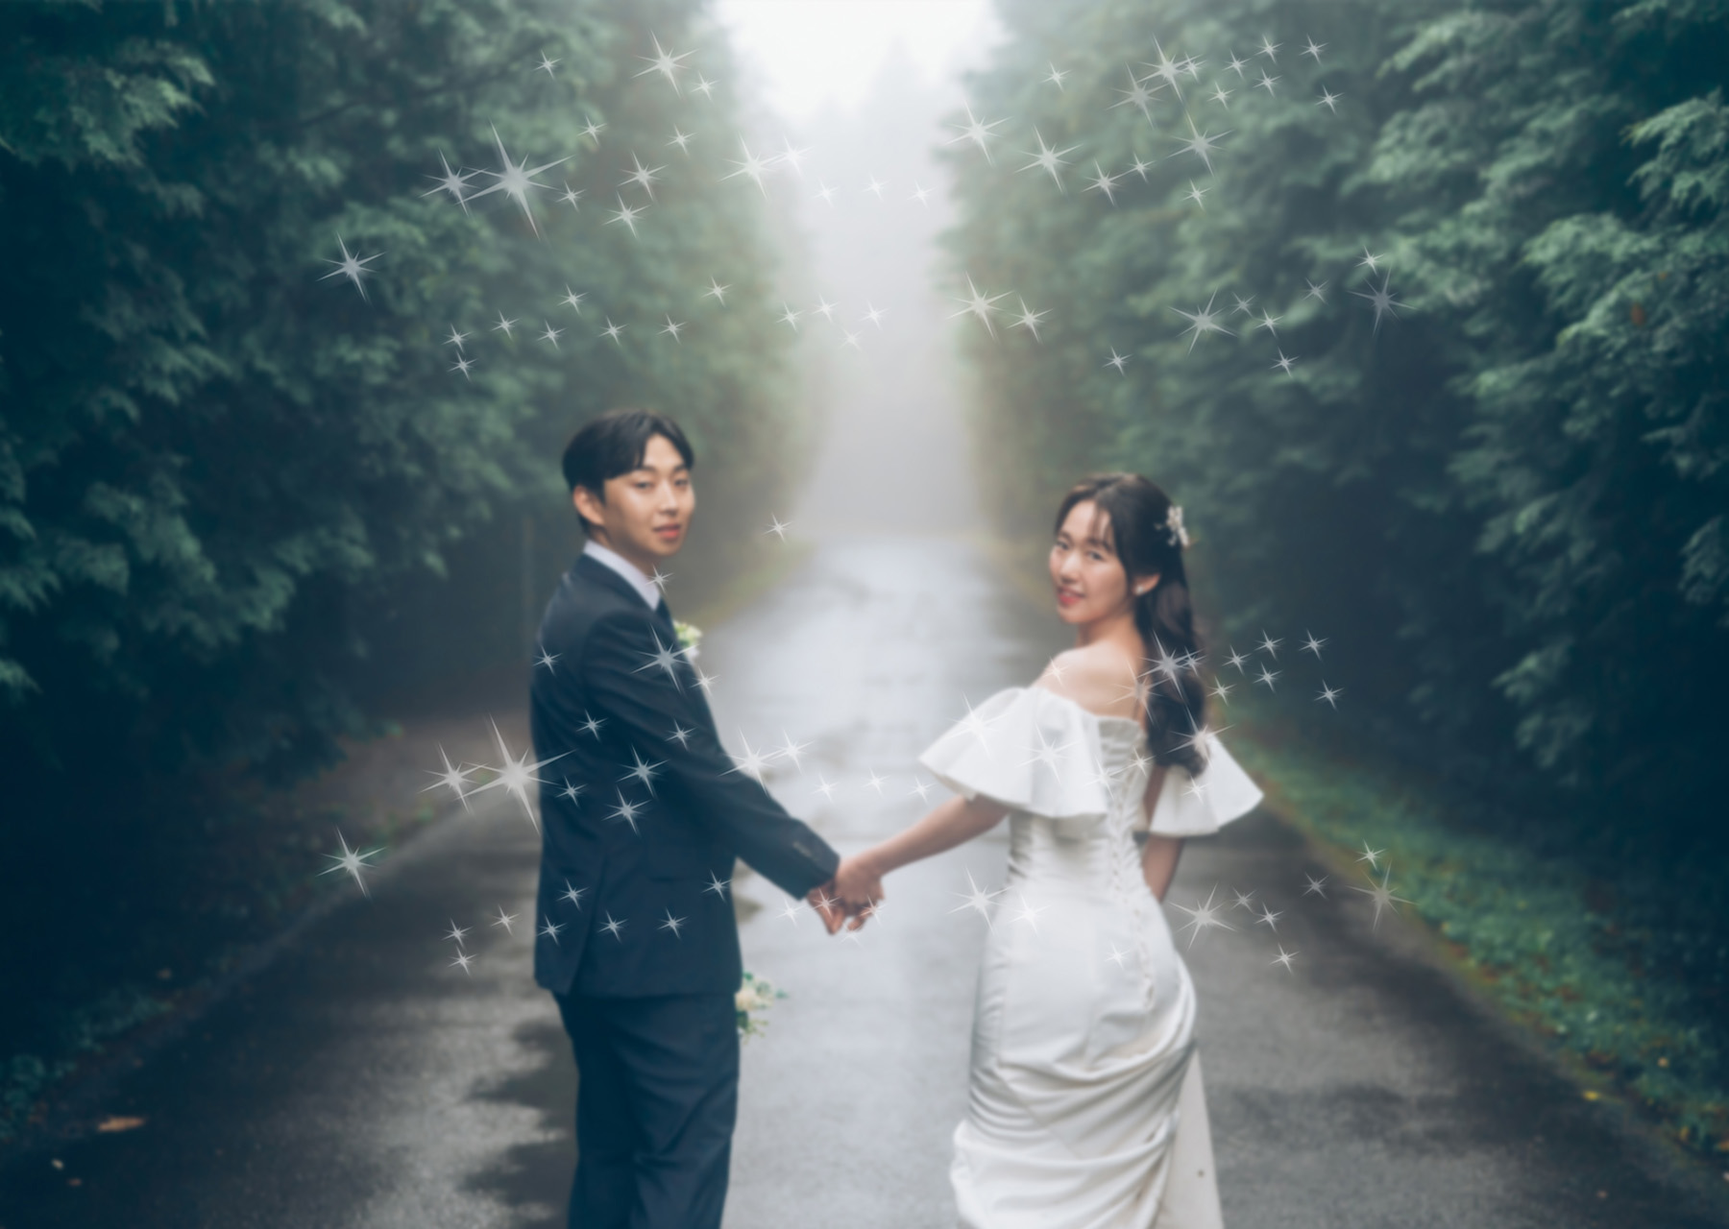
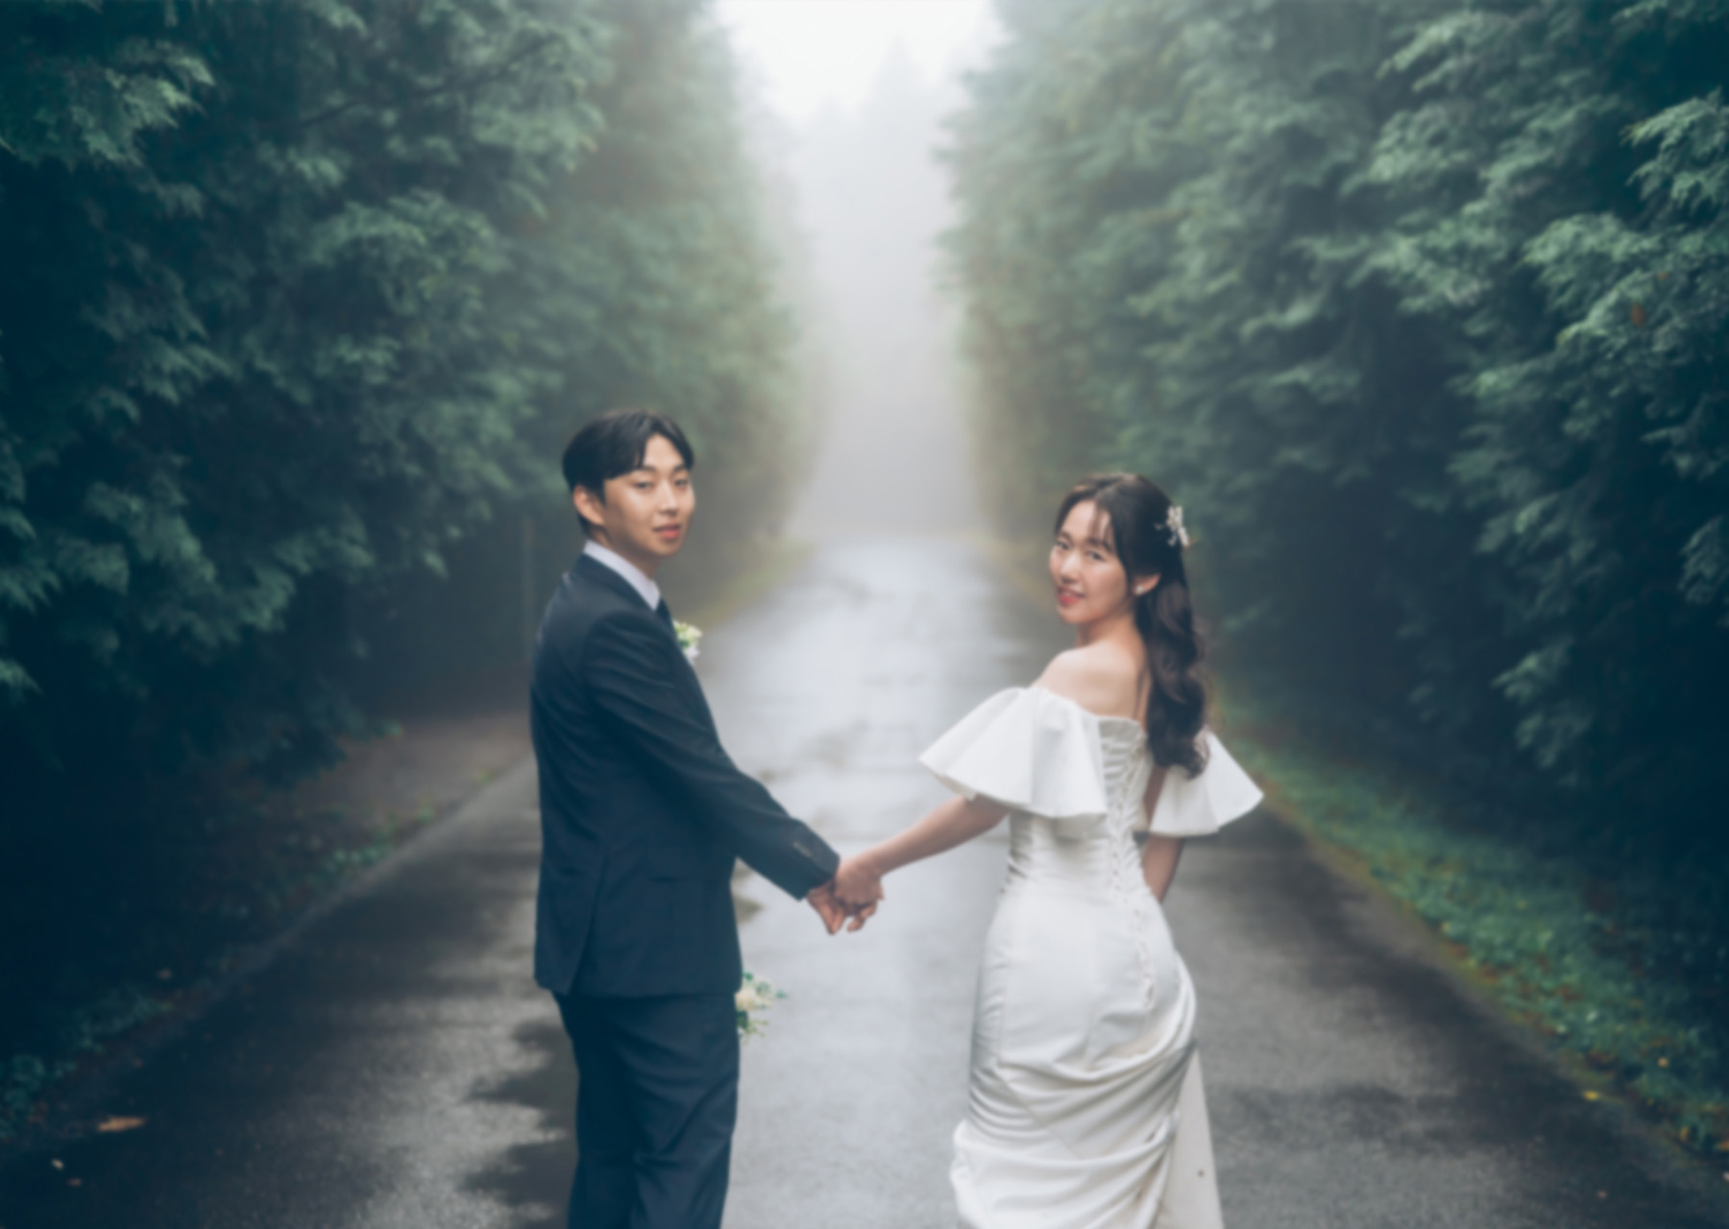
애니메이션추가

diff --git a/assets/css/main.css b/assets/css/main.css
@@ -3604,7 +3604,7 @@ input, select, textarea {
 
 	.stars--small {
 	  box-shadow: 281px 1179px #fff, 410px 1571px #fff, 63px 1057px #fff, 60px 1482px #fff, 984px 1564px #fff, 567px 351px #fff, 300px 987px #fff, 1754px 449px #fff, 1907px 1470px #fff, 1761px 414px #fff, 1517px 1093px #fff, 535px 84px #fff, 481px 421px #fff, 635px 816px #fff, 1651px 1314px #fff, 1153px 1107px #fff, 1846px 44px #fff, 1570px 935px #fff, 1460px 1184px #fff, 142px 1199px #fff, 1717px 34px #fff, 1568px 1987px #fff, 1073px 1209px #fff, 1183px 1413px #fff, 1634px 975px #fff, 1706px 864px #fff, 642px 27px #fff, 1603px 916px #fff, 562px 67px #fff, 1203px 1256px #fff, 1774px 1162px #fff, 62px 1960px #fff, 1119px 1003px #fff, 589px 1745px #fff, 350px 1643px #fff, 848px 1499px #fff, 758px 279px #fff, 1482px 1348px #fff, 453px 593px #fff, 875px 841px #fff, 838px 825px #fff, 38px 1226px #fff, 468px 558px #fff, 133px 981px #fff, 699px 493px #fff, 895px 1871px #fff, 233px 720px #fff, 1650px 1210px #fff, 285px 91px #fff, 460px 1971px #fff, 277px 509px #fff, 1330px 1134px #fff, 1151px 500px #fff, 69px 1909px #fff, 280px 1567px #fff, 385px 1103px #fff, 1054px 1474px #fff, 1331px 1073px #fff, 1533px 1037px #fff, 1723px 75px #fff, 867px 420px #fff, 263px 6px #fff, 1202px 1508px #fff, 681px 717px #fff, 24px 73px #fff, 1651px 1508px #fff, 1951px 346px #fff, 1548px 328px #fff, 465px 261px #fff, 114px 759px #fff, 1739px 1258px #fff, 584px 937px #fff, 973px 1568px #fff, 1049px 1375px #fff, 833px 562px #fff, 702px 244px #fff, 852px 1465px #fff, 850px 1936px #fff, 1302px 769px #fff, 230px 1696px #fff, 644px 1424px #fff, 1940px 658px #fff, 591px 226px #fff, 1135px 1531px #fff, 1516px 722px #fff, 1889px 396px #fff, 271px 1473px #fff, 440px 1546px #fff, 96px 502px #fff, 970px 1590px #fff, 1005px 959px #fff, 1332px 666px #fff, 1946px 522px #fff, 1368px 703px #fff, 1411px 235px #fff, 539px 1540px #fff, 1486px 460px #fff, 45px 357px #fff, 1981px 747px #fff, 1783px 1035px #fff, 720px 1023px #fff, 1858px 466px #fff, 1401px 1269px #fff, 41px 653px #fff, 290px 1150px #fff, 341px 493px #fff, 344px 43px #fff, 1020px 319px #fff, 1795px 413px #fff, 743px 1307px #fff, 328px 1039px #fff, 617px 71px #fff, 695px 120px #fff, 486px 1088px #fff, 596px 421px #fff, 201px 926px #fff, 1984px 1915px #fff, 655px 1285px #fff, 1983px 1490px #fff, 1121px 840px #fff, 258px 57px #fff, 670px 1174px #fff, 1460px 1263px #fff, 520px 1757px #fff, 1987px 1909px #fff, 319px 1747px #fff, 903px 331px #fff, 1183px 745px #fff, 1800px 1681px #fff, 66px 1006px #fff, 1013px 934px #fff, 1295px 1268px #fff, 454px 542px #fff, 1938px 1878px #fff, 758px 1852px #fff, 417px 1096px #fff, 1760px 695px #fff, 1775px 380px #fff, 355px 850px #fff, 805px 1859px #fff, 776px 413px #fff, 834px 1210px #fff, 1353px 1590px #fff, 37px 1279px #fff, 285px 1582px #fff, 1605px 853px #fff, 297px 1121px #fff, 477px 541px #fff, 631px 65px #fff, 549px 774px #fff, 112px 1647px #fff, 1244px 403px #fff, 623px 1584px #fff, 1144px 972px #fff, 591px 35px #fff, 15px 83px #fff, 1446px 1564px #fff, 1703px 157px #fff, 1539px 938px #fff, 413px 1274px #fff, 307px 521px #fff, 762px 1914px #fff, 1564px 1255px #fff, 144px 1548px #fff, 426px 1708px #fff, 1791px 237px #fff, 1788px 21px #fff, 962px 961px #fff, 1086px 225px #fff, 54px 13px #fff, 310px 785px #fff, 455px 1953px #fff, 1558px 450px #fff, 606px 138px #fff, 277px 1392px #fff, 878px 173px #fff, 1711px 681px #fff, 1792px 1404px #fff, 336px 1230px #fff, 381px 1198px #fff, 337px 163px #fff, 1929px 1291px #fff, 304px 1870px #fff, 1177px 1400px #fff, 728px 1605px #fff, 24px 1322px #fff, 85px 536px #fff, 1256px 32px #fff, 448px 1197px #fff, 26px 966px #fff, 1972px 1323px #fff, 1307px 896px #fff, 1903px 838px #fff, 1927px 430px #fff, 1505px 396px #fff, 1789px 1510px #fff, 1089px 541px #fff, 397px 1399px #fff, 1491px 1782px #fff, 310px 1122px #fff, 1266px 1520px #fff, 1604px 1282px #fff, 1943px 377px #fff, 1547px 244px #fff, 292px 182px #fff, 332px 1621px #fff, 1542px 1170px #fff, 571px 180px #fff, 1480px 709px #fff, 1637px 275px #fff, 1650px 576px #fff, 948px 1737px #fff, 60px 784px #fff, 977px 171px #fff, 1545px 1233px #fff, 1585px 608px #fff, 1982px 86px #fff, 332px 587px #fff, 1090px 1787px #fff, 411px 888px #fff, 616px 1247px #fff, 1441px 1197px #fff, 972px 88px #fff, 118px 1698px #fff, 1684px 461px #fff, 1439px 547px #fff, 1847px 835px #fff, 4px 960px #fff, 1427px 1327px #fff, 299px 1873px #fff, 1564px 1762px #fff, 612px 1690px #fff, 1913px 987px #fff, 869px 1284px #fff, 893px 1872px #fff, 1228px 197px #fff, 980px 1991px #fff, 861px 1681px #fff, 519px 547px #fff, 1329px 1966px #fff, 1561px 1556px #fff, 1453px 632px #fff, 1375px 754px #fff, 490px 374px #fff, 600px 1051px #fff, 1628px 1697px #fff, 404px 335px #fff, 1565px 75px #fff, 1020px 1007px #fff, 919px 101px #fff, 1177px 1913px #fff, 733px 350px #fff, 1300px 1280px #fff, 285px 321px #fff, 167px 1917px #fff, 577px 1861px #fff, 873px 1281px #fff, 318px 327px #fff, 1319px 402px #fff, 114px 67px #fff, 855px 29px #fff, 1182px 1147px #fff, 664px 1679px #fff, 1252px 1607px #fff, 285px 1305px #fff, 1556px 1430px #fff, 287px 207px #fff, 1006px 1826px #fff, 1224px 286px #fff, 289px 527px #fff, 878px 1677px #fff, 826px 1910px #fff, 1835px 1097px #fff, 757px 1219px #fff, 1260px 1240px #fff, 1446px 11px #fff, 1366px 113px #fff, 922px 1476px #fff, 181px 34px #fff, 932px 888px #fff, 1167px 1266px #fff, 408px 370px #fff, 1620px 1532px #fff, 831px 1690px #fff, 1684px 1365px #fff, 361px 78px #fff, 411px 993px #fff, 841px 1325px #fff, 508px 1892px #fff, 1227px 1689px #fff, 1057px 1px #fff, 220px 581px #fff, 881px 241px #fff, 343px 1387px #fff, 1903px 303px #fff, 1314px 118px #fff, 1557px 419px #fff, 788px 36px #fff, 184px 1253px #fff, 235px 1953px #fff, 828px 364px #fff, 444px 1941px #fff, 832px 150px #fff, 1134px 1882px #fff, 1004px 27px #fff, 286px 138px #fff, 389px 1340px #fff, 2px 1442px #fff, 1112px 814px #fff, 69px 991px #fff, 80px 1397px #fff, 1763px 719px #fff, 1994px 1781px #fff, 682px 1839px #fff, 1039px 1512px #fff, 1405px 651px #fff, 1441px 1388px #fff, 923px 1543px #fff, 977px 1238px #fff, 881px 1626px #fff, 1747px 322px #fff, 1050px 732px #fff, 44px 1228px #fff, 1826px 529px #fff, 710px 973px #fff, 718px 160px #fff, 276px 218px #fff, 383px 475px #fff, 208px 1650px #fff, 1594px 1010px #fff, 673px 1021px #fff, 1950px 27px #fff, 1163px 7px #fff, 518px 1563px #fff, 1592px 1486px #fff, 1967px 1291px #fff, 1746px 104px #fff, 1774px 401px #fff, 1498px 827px #fff, 1139px 272px #fff, 400px 784px #fff, 1715px 1868px #fff, 801px 1390px #fff, 658px 1293px #fff, 1592px 1619px #fff, 1395px 1472px #fff, 385px 695px #fff, 120px 272px #fff, 1536px 222px #fff, 1818px 911px #fff, 973px 503px #fff, 643px 332px #fff, 1940px 394px #fff, 1349px 1760px #fff, 931px 1541px #fff, 238px 870px #fff, 1734px 416px #fff, 664px 48px #fff, 172px 1696px #fff, 1327px 1556px #fff, 802px 1841px #fff, 615px 815px #fff, 926px 1823px #fff, 531px 113px #fff, 714px 1498px #fff, 1480px 1604px #fff, 127px 1918px #fff, 1294px 887px #fff, 1794px 1408px #fff, 1589px 930px #fff, 847px 1386px #fff, 327px 659px #fff, 992px 85px #fff, 1233px 1223px #fff, 461px 1177px #fff, 54px 1229px #fff, 1394px 1863px #fff, 504px 1333px #fff, 1090px 521px #fff, 1566px 1655px #fff, 1524px 1784px #fff, 1311px 1834px #fff, 1614px 1800px #fff, 1137px 1512px #fff, 102px 664px #fff, 145px 1597px #fff, 887px 880px #fff, 1216px 1362px #fff, 833px 911px #fff, 204px 1917px #fff, 1123px 1919px #fff, 118px 1192px #fff, 1023px 995px #fff, 1986px 616px #fff, 1621px 667px #fff, 1460px 1868px #fff, 1343px 1586px #fff, 563px 1967px #fff, 261px 1983px #fff, 82px 1790px #fff, 794px 1786px #fff, 1460px 721px #fff, 130px 652px #fff, 959px 431px #fff, 1170px 1823px #fff, 830px 1576px #fff, 363px 1963px #fff, 1780px 1218px #fff, 494px 1549px #fff, 526px 286px #fff, 437px 907px #fff, 1450px 1705px #fff, 1017px 619px #fff, 1402px 1993px #fff, 1604px 1622px #fff, 680px 930px #fff, 1231px 1261px #fff, 1220px 1925px #fff, 215px 327px #fff, 854px 82px #fff, 791px 674px #fff, 373px 1616px #fff, 1595px 687px #fff, 1606px 979px #fff, 1839px 1851px #fff, 929px 535px #fff, 1468px 954px #fff, 1803px 1730px #fff, 1965px 1964px #fff, 420px 953px #fff, 421px 1719px #fff, 1468px 1563px #fff, 1538px 1585px #fff, 379px 1558px #fff, 354px 1941px #fff, 863px 1638px #fff, 1617px 1932px #fff, 958px 1532px #fff, 1061px 650px #fff, 593px 190px #fff, 846px 379px #fff, 356px 1537px #fff, 166px 1432px #fff, 765px 1510px #fff, 356px 1212px #fff, 962px 1761px #fff, 1854px 1071px #fff, 1073px 400px #fff, 590px 176px #fff, 1135px 587px #fff, 1330px 1374px #fff, 1403px 1899px #fff, 1918px 1181px #fff, 23px 706px #fff, 1759px 981px #fff, 467px 846px #fff, 540px 393px #fff, 17px 377px #fff, 856px 1233px #fff, 1171px 80px #fff, 356px 856px #fff, 774px 421px #fff, 699px 1382px #fff, 95px 1469px #fff, 1267px 1971px #fff, 538px 1716px #fff, 1530px 697px #fff, 1090px 350px #fff, 1346px 1501px #fff, 37px 129px #fff, 246px 1774px #fff, 587px 295px #fff, 1556px 759px #fff, 1629px 1967px #fff, 1642px 647px #fff, 1479px 421px #fff, 1433px 903px #fff, 975px 46px #fff, 357px 330px #fff, 1756px 928px #fff, 870px 485px #fff, 1720px 422px #fff, 1023px 908px #fff, 1498px 760px #fff, 1778px 1820px #fff, 1030px 1895px #fff, 1605px 680px #fff, 1785px 125px #fff, 1358px 1708px #fff, 717px 1082px #fff, 1553px 274px #fff, 1406px 18px #fff, 1322px 1981px #fff, 1537px 628px #fff, 506px 556px #fff, 710px 9px #fff, 1px 1082px #fff, 780px 1935px #fff, 1954px 1085px #fff, 1069px 1331px #fff, 933px 125px #fff, 620px 914px #fff, 351px 1756px #fff, 199px 1893px #fff, 1064px 1881px #fff, 682px 1891px #fff, 1398px 727px #fff, 32px 664px #fff, 1128px 1701px #fff, 181px 1626px #fff, 279px 1988px #fff, 166px 1553px #fff, 1526px 73px #fff, 1298px 711px #fff, 1953px 1169px #fff, 208px 1024px #fff, 787px 1914px #fff, 66px 1503px #fff, 1798px 458px #fff, 1520px 991px #fff, 806px 377px #fff, 1907px 1240px #fff, 1466px 1844px #fff, 1131px 168px #fff, 161px 156px #fff, 1615px 480px #fff, 1179px 279px #fff, 1630px 1117px #fff, 397px 1618px #fff, 1186px 1883px #fff, 854px 963px #fff, 854px 1030px #fff, 916px 307px #fff, 601px 1321px #fff, 1509px 1077px #fff, 1415px 1435px #fff, 483px 486px #fff, 131px 235px #fff, 1926px 1605px #fff, 441px 222px #fff, 381px 970px #fff, 1998px 1626px #fff, 522px 903px #fff, 398px 1190px #fff, 1498px 628px #fff, 1016px 1881px #fff, 1757px 1776px #fff, 1678px 876px #fff, 1857px 524px #fff, 1635px 1312px #fff, 825px 1684px #fff, 1214px 1630px #fff, 1937px 1532px #fff, 998px 1035px #fff, 1784px 605px #fff, 1233px 598px #fff, 1274px 1678px #fff, 811px 744px #fff, 1152px 1456px #fff, 23px 776px #fff, 934px 152px #fff, 1848px 1821px #fff, 678px 1471px #fff, 1914px 92px #fff, 201px 362px #fff, 1771px 1461px #fff, 373px 921px #fff, 1199px 1254px #fff, 1695px 265px #fff, 221px 970px #fff, 1695px 1946px #fff, 1057px 874px #fff, 97px 39px #fff, 970px 1582px #fff, 986px 987px #fff, 1167px 985px #fff, 1283px 547px #fff, 1970px 1084px #fff, 878px 1661px #fff, 698px 1697px #fff, 311px 1486px #fff, 654px 205px #fff, 1879px 1914px #fff, 1338px 774px #fff, 453px 248px #fff, 1647px 1670px #fff, 1093px 958px #fff, 1477px 304px #fff, 1274px 1795px #fff, 1888px 295px #fff, 359px 897px #fff, 1659px 546px #fff, 1076px 1901px #fff, 961px 1129px #fff, 792px 428px #fff, 1189px 1606px #fff, 1177px 3px #fff, 836px 717px #fff, 324px 1164px #fff, 90px 1843px #fff, 1012px 15px #fff, 700px 349px #fff, 90px 684px #fff, 516px 1465px #fff, 274px 365px #fff, 1820px 1055px #fff, 1528px 1422px #fff, 19px 408px #fff, 294px 664px #fff, 1622px 977px #fff, 1388px 1678px #fff, 586px 121px #fff, 1903px 1652px #fff, 367px 965px #fff, 734px 87px #fff, 1087px 1768px #fff, 1945px 634px #fff, 538px 538px #fff, 1065px 589px #fff, 1878px 725px #fff, 656px 1847px #fff, 1845px 218px #fff, 866px 1589px #fff, 1088px 1139px #fff, 368px 1924px #fff, 772px 256px #fff, 349px 521px #fff, 1576px 1905px #fff, 1844px 784px #fff, 490px 1264px #fff, 1377px 1185px #fff, 491px 1589px #fff, 1297px 1220px #fff, 1508px 557px #fff, 649px 1295px #fff, 955px 1144px #fff, 1956px 1823px #fff, 1814px 49px #fff, 1639px 812px #fff, 612px 1492px #fff, 270px 1473px #fff, 937px 1001px #fff, 1459px 139px #fff, 1967px 544px #fff, 846px 103px #fff, 1608px 868px #fff, 769px 1347px #fff, 1475px 799px #fff, 1942px 2000px #fff, 1835px 823px #fff, 328px 1567px #fff, 757px 1070px #fff, 682px 42px #fff, 1929px 180px #fff, 1307px 1257px #fff, 1141px 471px #fff, 728px 959px #fff, 1718px 1173px #fff, 652px 1448px #fff, 107px 98px #fff, 891px 707px #fff, 1866px 998px #fff, 1944px 782px #fff, 1460px 282px #fff, 701px 468px #fff, 201px 1648px #fff, 147px 974px #fff, 920px 1606px #fff, 1724px 533px #fff, 1302px 689px #fff, 494px 656px #fff, 265px 59px #fff, 1566px 1679px #fff, 388px 1285px #fff, 1625px 1431px #fff, 1387px 1347px #fff, 1340px 1830px #fff, 791px 137px #fff, 1776px 1463px #fff, 1680px 1601px #fff, 290px 177px #fff, 1231px 708px #fff, 996px 1023px #fff, 285px 259px #fff, 75px 295px #fff, 409px 126px #fff, 287px 80px #fff, 947px 98px #fff, 772px 1273px #fff, 1078px 1068px #fff, 351px 1368px #fff, 44px 1745px #fff, 597px 761px #fff, 1361px 931px #fff, 1692px 1746px #fff, 314px 643px #fff, 657px 676px #fff, 685px 1450px #fff, 768px 274px #fff, 1770px 1820px #fff;
-	  opacity: 0.4;
+	  opacity: 0.5;
 	  -webkit-filter: blur(1px);
 	  filter: blur(1px);
 	}
@@ -3626,12 +3626,14 @@ input, select, textarea {
 	  box-shadow: 1800px 919px #fff, 1456px 1845px #fff, 15px 829px #fff, 935px 1903px #fff, 1997px 1403px #fff, 1210px 1897px #fff, 584px 216px #fff, 298px 411px #fff, 424px 1137px #fff, 1937px 1467px #fff, 968px 1678px #fff, 258px 688px #fff, 318px 506px #fff, 1720px 1226px #fff, 1062px 1467px #fff, 1428px 287px #fff, 1109px 475px #fff, 1285px 135px #fff, 1657px 471px #fff, 1318px 1276px #fff, 1765px 1428px #fff, 307px 1845px #fff, 1556px 1595px #fff, 402px 1910px #fff, 1798px 1118px #fff, 21px 1824px #fff, 447px 1367px #fff, 739px 1569px #fff, 1085px 1363px #fff, 495px 516px #fff, 1559px 1330px #fff, 1450px 343px #fff, 1870px 1743px #fff, 634px 164px #fff, 607px 156px #fff, 1993px 269px #fff, 1809px 1625px #fff, 56px 518px #fff, 1781px 1305px #fff, 906px 655px #fff, 669px 890px #fff, 1648px 1185px #fff, 564px 1419px #fff, 809px 1264px #fff, 568px 616px #fff, 983px 771px #fff, 356px 1924px #fff, 1756px 1720px #fff, 1638px 1042px #fff, 64px 667px #fff, 1439px 382px #fff, 1466px 1077px #fff, 332px 325px #fff, 690px 511px #fff, 259px 887px #fff, 1118px 1849px #fff, 540px 1219px #fff, 349px 3px #fff, 660px 455px #fff, 175px 311px #fff, 1315px 1700px #fff, 1078px 1923px #fff, 478px 147px #fff, 1481px 981px #fff, 1058px 508px #fff, 1852px 1171px #fff, 1769px 399px #fff, 1024px 885px #fff, 1913px 1851px #fff, 1373px 416px #fff, 740px 1211px #fff, 1338px 927px #fff, 461px 153px #fff, 1962px 719px #fff, 513px 1482px #fff, 130px 584px #fff, 1090px 592px #fff, 1641px 1783px #fff, 1687px 1404px #fff, 1459px 1670px #fff, 690px 659px #fff, 945px 774px #fff, 537px 412px #fff, 518px 1748px #fff, 951px 1625px #fff, 1284px 253px #fff, 1206px 300px #fff, 418px 497px #fff, 1178px 1896px #fff, 168px 731px #fff, 249px 423px #fff, 1227px 901px #fff, 53px 829px #fff, 1101px 1298px #fff, 389px 1916px #fff, 1202px 780px #fff, 331px 1331px #fff, 1052px 1996px #fff, 948px 235px #fff, 949px 1656px #fff;
 	  -webkit-animation-duration: 250s;
 	  animation-duration: 250s;
+	  -webkit-filter: blur(1px);
+	  opacity: 0.6;
 	}
 
 	.shooting-stars {
 	  -webkit-transform: rotate(44deg);
 	  transform: rotate(44deg);
-	  height: 200vh;
+	  height: 100%;
 	  width: 270vh;
 	  position: absolute;
 	  top: 50%;
@@ -4346,3 +4348,46 @@ input, select, textarea {
 	body.is-mobile.landing #footer {
 		background-color: #1d242a;
 	}
+
+
+	/* light */
+	.cont_event2 {
+	  background-color: #20377f
+	}
+
+	.cont_event2 .cont_btm {
+	  background-color: #182c68;
+	}
+	  text-align:center .wr_cont {
+	    position: relative;
+	    overflow: hidden
+	  }
+
+	.inner-light {
+	    position: relative;
+	    width: 1080px;
+	    margin: 0 auto
+	  }
+	.cont_event2 .light {
+	    position: absolute;
+	    top: 74px;
+	    left: -880px;
+	    opacity: 1;
+	    animation: light 2.5s linear infinite;
+	  }
+
+	  @keyframes light {
+	    from {
+	      left: -1280px
+	    }
+
+	    to {
+	      left: 900px;
+	    }
+	  }
+
+	.wr_cont {
+	    position: relative;
+	    overflow: hidden
+	  }
+

diff --git a/index.html b/index.html
@@ -11,10 +11,10 @@
 		<meta name="viewport" content="width=device-width, initial-scale=1, user-scalable=no" />
 		<!-- meta -->
 		<meta property="og:url" content="https://dongkyun-and-yeonwoo.vercel.app/">
-		<meta property="og:title" content="동균♥연우 모바일 청첩장">
+		<meta property="og:title" content="동균♥연우 결혼식에 초대합니다!">
 		<meta property="og:type" content="website">
 		<meta property="og:image" content="https://github.com/yeonwookang/dongkyun-and-yeonwoo/blob/main/images/banner_resized.png?raw=true">
-		<meta property="og:description" content="구동균♥강연우 저희 결혼합니다!">
+		<meta property="og:description" content="2024년 3월 17일 일요일 오후 2시 대구 파라다이스웨딩 그랜드볼룸">
 
 		<link rel="stylesheet" href="assets/css/main.css" />
 		<link rel="stylesheet" href="assets/css/calendar.css" />
@@ -29,11 +29,11 @@
 			    var dDay = (today - base) / 1000 / 60 / 60 / 24;
 			    var target = document.getElementById('dDayTarget')
 			    if(dDay < 0) {
-			        target.innerHTML = "동균" +'<i class="fa-solid fa-heart"></i>'+"연우 결혼식까지 D" + dDay;
+			        target.innerHTML = "우리 결혼까지 D" + dDay;
 			    } else if(dDay == 0) {
-			        target.innerHTML = "동균" +'<i class="fa-solid fa-heart"></i>'+"연우 결혼이 오늘입니다!";
+			        target.innerHTML = "우리 오늘 결혼합니다!";
 			    } else {
-			        target.innerHTML = "동균" +'<i class="fa-solid fa-heart"></i>'+"연우 결혼식 D+" + dDay;
+			        target.innerHTML = "우리 결혼 D+" + dDay;
 			    }
 
 			}
@@ -57,12 +57,12 @@
 									<a href="#menu" class="menuToggle"><span></span></a>
 									<div id="menu">
 										<ul>
-											<li><a href="index.html">Main</a></li>
-											<li><a href="#">오시는 길</a></li>
-											<li><a href="#">인사말</a></li>
-											<li><a href="#">사진첩</a></li>
+											<li><a href="index.html">첫 화면</a></li>
+											<li><a href="#one">오시는 길</a></li>
+											<li><a href="#two">초대인사</a></li>
+											<li><a href="#">신랑신부 소개</a></li>
 											<li><a href="#">방명록</a></li>
-											<li><a href="#">마음전할곳</a></li>
+											<li><a href="#">마음전하는 곳</a></li>
 										</ul>
 									</div>
 								</li>
@@ -73,14 +73,18 @@
 				<!-- Banner -->
 					<section id="banner" style="box-shadow: 1px 1px 1px 1px rgba(0,0,0,0.3);">
 						<div class="inner">
-							  <div class="shooting-stars">
+							<div class="stars">
+							<div class="stars stars--small"></div>
+							<div class="stars stars--medium"></div>
+							<div class="stars stars--big"></div>
+							</div>
+							<div class="shooting-stars">
 						    <div class="shooting-star"></div>
 						    <div class="shooting-star shooting-star--mid"></div>
 						    <div class="shooting-star shooting-star--fast"></div>
 						    <div class="shooting-star shooting-star--meh"></div>
-						  </div>
+						  	</div>
 							<div class="content">
-								<h3 style="font-size:0.7em;" id="dDayTarget"></h3>
 								<h2><span style="font-size:0.8em;">2024.03.17(일) 14:00</span>
 								<span>대구 파라다이스웨딩</span></h2>
 								<p style="font-size:1.1em;">
@@ -109,9 +113,9 @@
 							<header class="major">
 								<div class="content">
 									<h2>오시는 길</h2>
-									<p style="font-size:1.3em;"><span><b>대구 파라다이스웨딩 3F 그랜드볼룸</b></span>
+									<p style="font-size:1.3em;"><span><b>대구 파라다이스웨딩 3층 그랜드볼룸</b></span>
 										<span>(대구광역시 달서구 구마로 52)</span>
-										<span>Tel. 053-552-0500</span></p>
+										<span>전화. 053-552-0500</span></p>
 									<div>
 									<div id="map" style="width:100%; margin:0 0 4px 0; border: 3px solid white;box-shadow: 1px 1px 1px 1px rgba(0,0,0,0.1);">
 									</div>
@@ -151,11 +155,11 @@
 						</div>
 					</section>
 				<!-- Three -->
-					<section id="three" class="wrapper style2 special">
+					<section id="two" class="wrapper style2 special">
 						<div class="inner">
 							<header class="major">
 								<div class="content">
-									<h2>&nbsp;&nbsp;&nbsp;&nbsp;&nbsp;&nbsp;&nbsp;&nbsp;&nbsp;</h2>
+									<h2 id="dDayTarget"></h2>
 									<div class="calender-wrapper">
 								    <header>
 								        <div class="nav">
@@ -239,7 +243,7 @@
 						</div>
 					</section>
 				<!-- Two -->
-					<section id="two" class="wrapper style3 special">
+					<section id="three" class="wrapper style3 special">
 						<div class="inner">
 							<header class="major">
 								<h2>사진첩<br /></h2>
@@ -265,7 +269,7 @@
 					</section>
 
 				<!-- Three -->
-					<section id="three" class="wrapper style3 special">
+					<section id="four" class="wrapper style3 special">
 						<div class="inner">
 							<header class="major">
 								<h2>방명록</h2>
